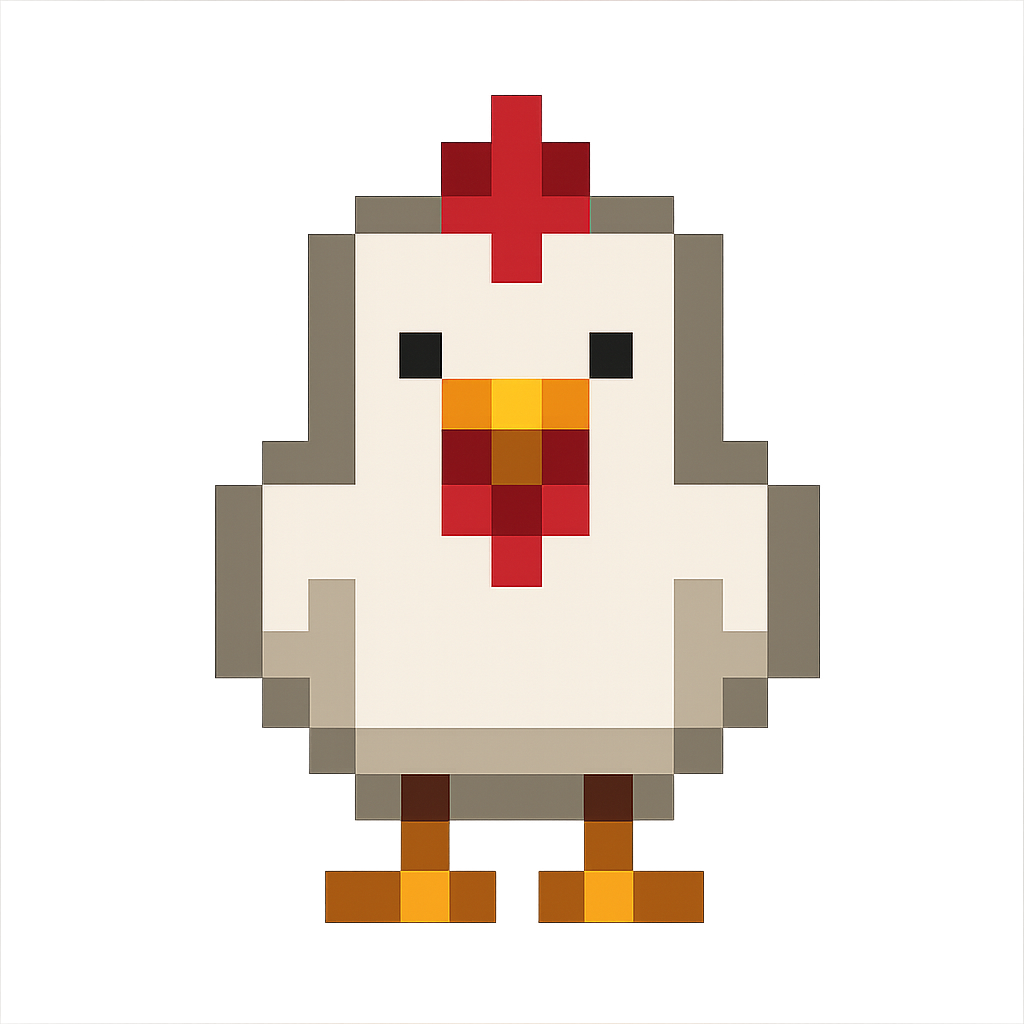
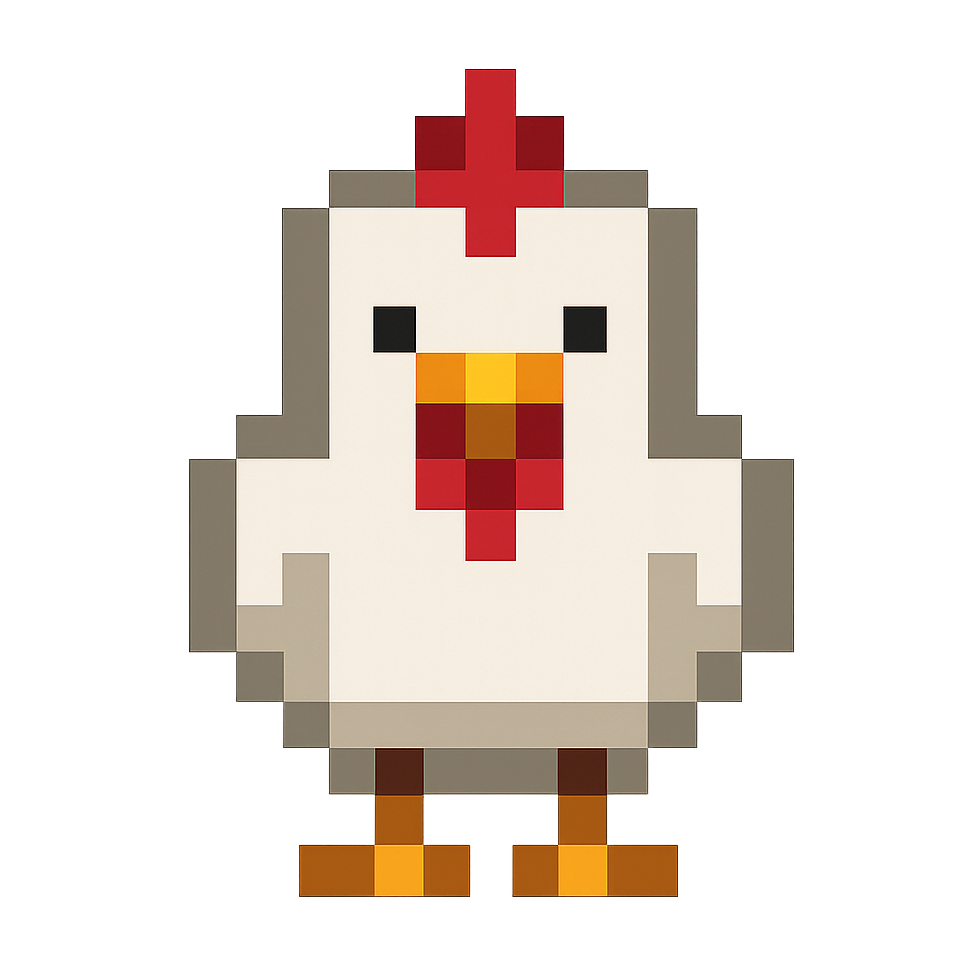
Player anda na tela

Changed region(s): [[0.1852, 0.0617, 0.8333, 0.9259]]

diff --git a/game_screen.py b/game_screen.py
@@ -34,9 +34,9 @@ def game_screen(window):
                 if event.type == pygame.KEYDOWN:
                     keys_down[event.key] = True
                     if event.key == pygame.K_UP:
-                        player.rect.y += 120
-                    if event.key == pygame.K_DOWN:
                         player.rect.y -= 120
+                    if event.key == pygame.K_DOWN:
+                        player.rect.y += 120
                     if event.key == pygame.K_LEFT:
                         player.rect.x -= 120
                     if event.key == pygame.K_RIGHT:

diff --git a/assets.py b/assets.py
@@ -13,4 +13,6 @@ def load_assets():
     assets[STREET_IMG] = pygame.image.load(os.path.join(IMG_DIR, 'rua.png')).convert_alpha()
     assets[PLAYER_IMG] = pygame.image.load(os.path.join(IMG_DIR, 'player.png')).convert_alpha()
 
+    assets[PLAYER_IMG] = pygame.transform.scale(assets[PLAYER_IMG], (PLAYER_WIDTH, PLAYER_HEIGHT))
+
     return assets

diff --git a/config.py b/config.py
@@ -8,6 +8,9 @@ WIDTH = 1200
 HEIGHT = 600
 FPS = 60
 
+PLAYER_HEIGHT = 120
+PLAYER_WIDTH = 120
+
 BLACK = (0, 0, 0)
 WHITE = (255, 255, 255)
 RED = (255, 0, 0)
